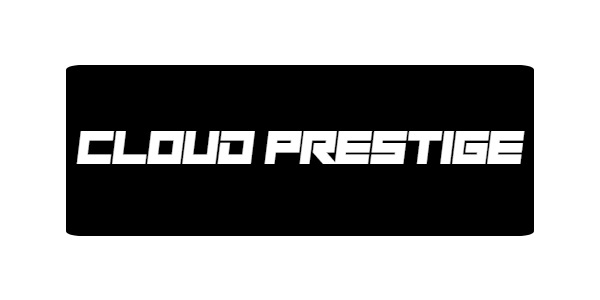
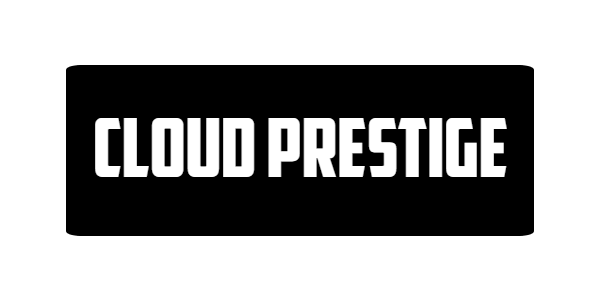
Changed the font on the buttons, vastly prefer this look over the old one

Changed region(s): [[0.12, 0.39, 0.87, 0.6]]

diff --git a/core/src/main/java/com/stormidle/screens/GameScreen.java b/core/src/main/java/com/stormidle/screens/GameScreen.java
@@ -18,7 +18,6 @@ import com.badlogic.gdx.scenes.scene2d.ui.ProgressBar;
 import com.badlogic.gdx.scenes.scene2d.utils.ClickListener;
 import com.badlogic.gdx.scenes.scene2d.utils.Drawable;
 import com.badlogic.gdx.scenes.scene2d.utils.TextureRegionDrawable;
-import com.badlogic.gdx.utils.Align;
 import com.badlogic.gdx.utils.Array;
 import com.badlogic.gdx.utils.viewport.ScreenViewport;
 import com.stormidle.objects.Rain;
@@ -27,7 +26,7 @@ import com.stormidle.objects.GameData;
 public class GameScreen implements Screen {
 
     // Tweakable values for game UI
-    private static final int DROPS_TO_FILL =      10; // How many drops needed to convert the rainfall into currency
+    private static final int DROPS_TO_FILL =      50; // How many drops needed to convert the rainfall into currency
     private static final float FALL_SPEED =       300f;
     private static final float BOWL_WIDTH =       400f;
     private static final float BOWL_HEIGHT =      200f;
@@ -59,7 +58,7 @@ public class GameScreen implements Screen {
     private Texture rainButtonTexture;
     private Texture autoButtonTexture;
     private Texture econButtonTexture;
-    private Texture ultButtonTexture;
+    private Texture abilitiesButtonTexture;
     private Texture prestigeButtonTexture;
     private Texture notUnlockedTexture;
     private Texture popupBgTexture;
@@ -154,7 +153,7 @@ public class GameScreen implements Screen {
         rainButtonTexture = new Texture("rain_upgrades_button.png");
         autoButtonTexture = new Texture("auto_upgrades_button.png");
         econButtonTexture = new Texture("econ_upgrades_button.png");
-        ultButtonTexture = new Texture("ult_upgrades_button.png");
+        abilitiesButtonTexture = new Texture("abilities_button.png");
         prestigeButtonTexture = new Texture("prestige_button.png");
         notUnlockedTexture = new Texture("not_unlocked_button.png");
 
@@ -170,9 +169,9 @@ public class GameScreen implements Screen {
         float startY = stageHeight - BTN_HEIGHT - 60f;
 
         addUpgradeButton(rainButtonTexture, btnX, startY - 0 * (BTN_HEIGHT + BTN_PADDING), "rain");
-        addUpgradeButton(autoButtonTexture, btnX, startY - 1 * (BTN_HEIGHT + BTN_PADDING), "auto");
-        addUpgradeButton(econButtonTexture, btnX, startY - 2 * (BTN_HEIGHT + BTN_PADDING), "econ");
-        addUpgradeButton(ultButtonTexture, btnX, startY - 3 * (BTN_HEIGHT + BTN_PADDING), "ult");
+        addUpgradeButton(econButtonTexture, btnX, startY - 1 * (BTN_HEIGHT + BTN_PADDING), "econ");
+        addUpgradeButton(autoButtonTexture, btnX, startY - 2 * (BTN_HEIGHT + BTN_PADDING), "auto");
+        addUpgradeButton(abilitiesButtonTexture, btnX, startY - 3 * (BTN_HEIGHT + BTN_PADDING), "ult");
         // Prestige pinned to bottom right
         addUpgradeButton(prestigeButtonTexture, btnX, 20f, "prestige");
     }
@@ -379,7 +378,7 @@ public class GameScreen implements Screen {
         rainButtonTexture.dispose();
         autoButtonTexture.dispose();
         econButtonTexture.dispose();
-        ultButtonTexture.dispose();
+        abilitiesButtonTexture.dispose();
         prestigeButtonTexture.dispose();
         notUnlockedTexture.dispose();
         popupBgTexture.dispose();
